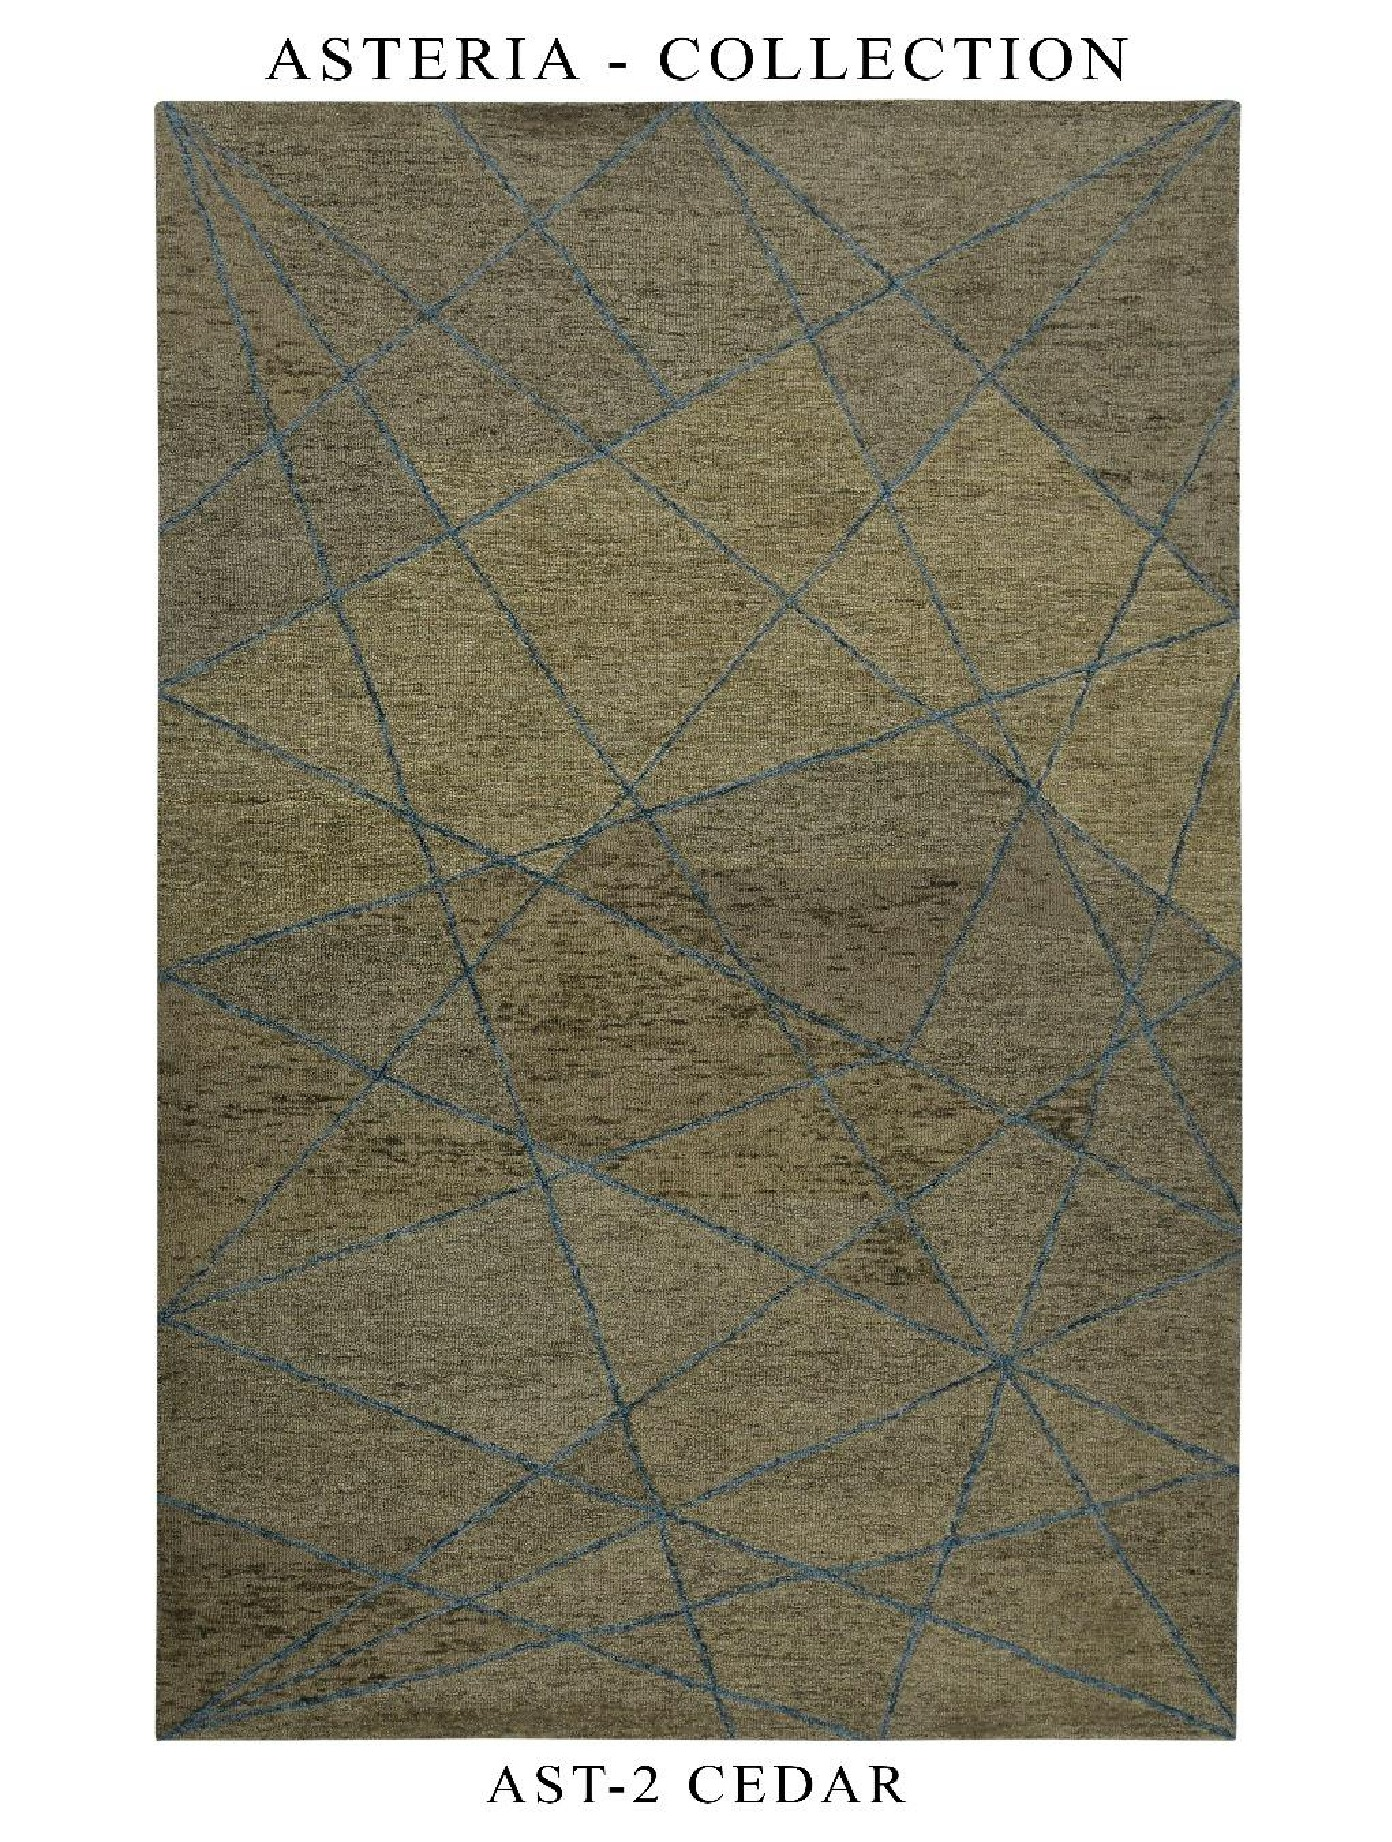
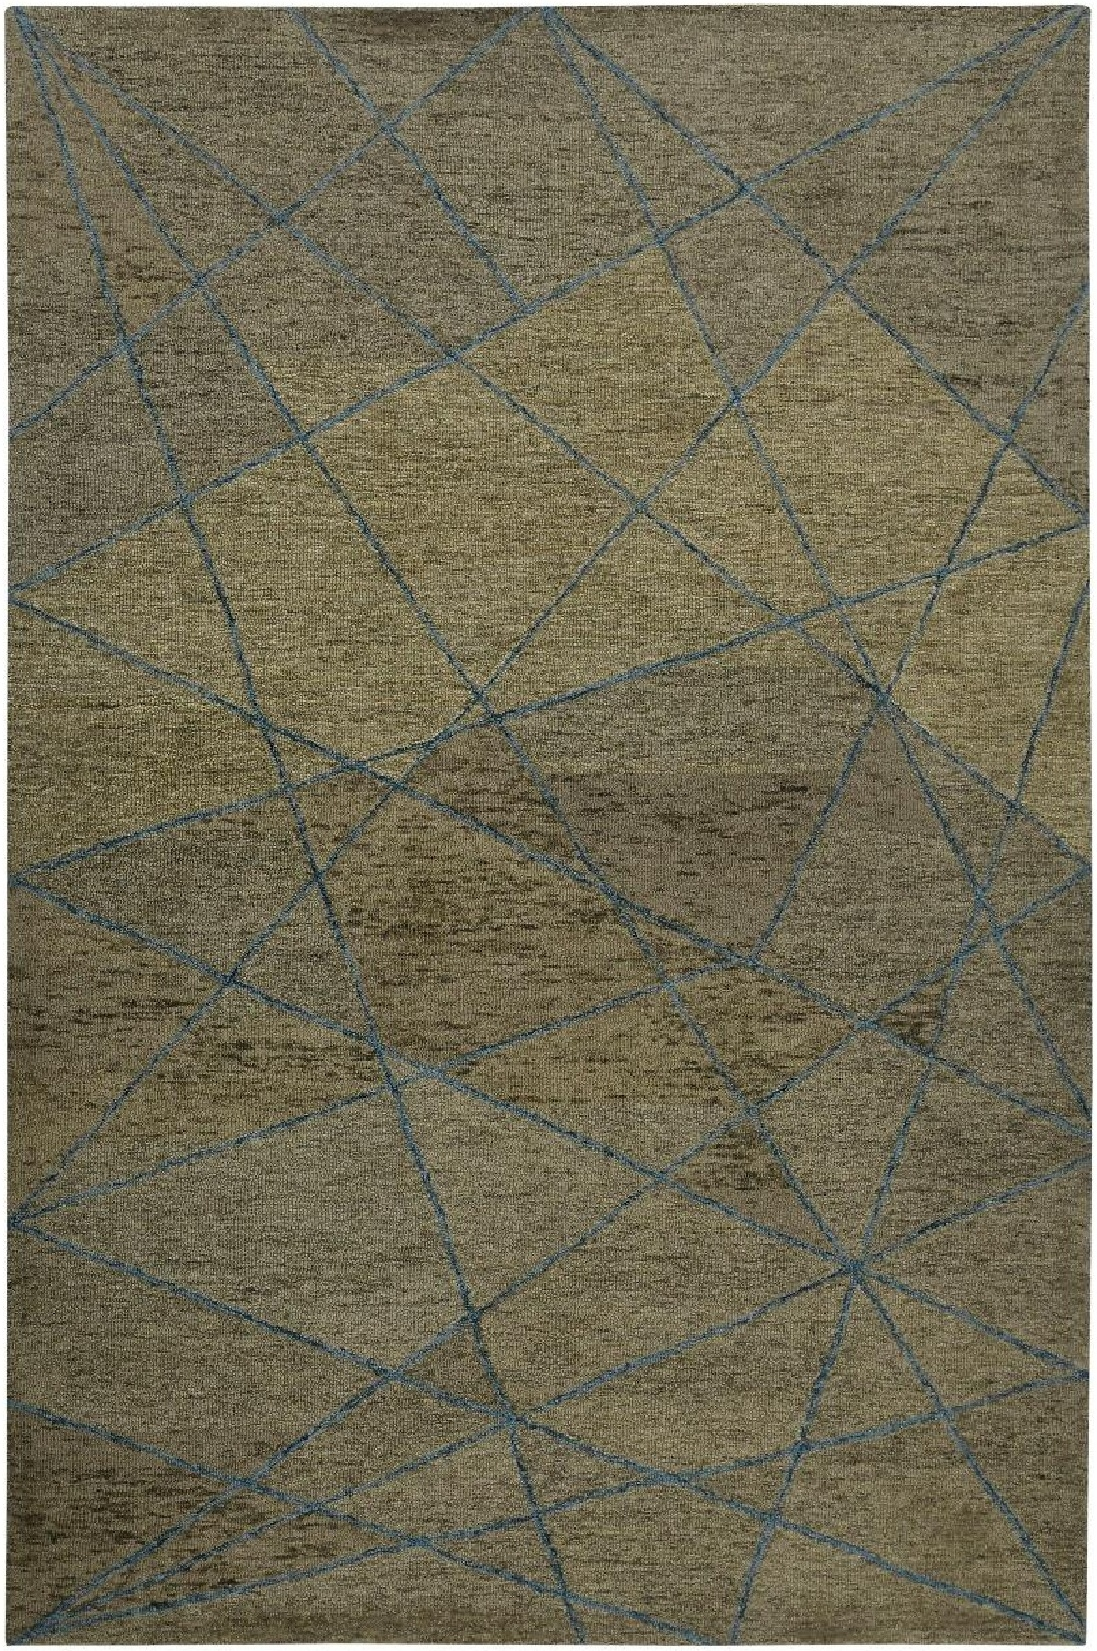
Replace rug images with clean edited versions (text removed) and revert CSS crop

diff --git a/index.html b/index.html
@@ -382,7 +382,7 @@ footer{background:linear-gradient(135deg,var(--ink) 0%,#0D1C55 100%);border-top:
 .designs-gallery-head{margin-bottom:32px}
 .designs-grid{display:grid;grid-template-columns:repeat(3,1fr);gap:16px}
 .design-card{border-radius:3px;overflow:hidden;position:relative;aspect-ratio:3/4;cursor:pointer}
-.design-card img{width:100%;height:100%;object-fit:cover;object-position:center 40%;transition:transform .5s ease;display:block}
+.design-card img{width:100%;height:100%;object-fit:cover;object-position:center center;transition:transform .5s ease;display:block}
 .design-card:hover img{transform:scale(1.05)}
 .design-caption{position:absolute;bottom:0;left:0;right:0;padding:16px;background:linear-gradient(0deg,rgba(26,43,107,.85) 0%,transparent 100%);color:rgba(255,248,242,.9);font-family:var(--mono);font-size:.6rem;letter-spacing:.1em;text-transform:uppercase;line-height:1.5}
 .bespoke-process{background:linear-gradient(135deg,var(--forest) 0%,#0D1C55 100%);padding:64px 80px;margin:0 -80px;position:relative}
